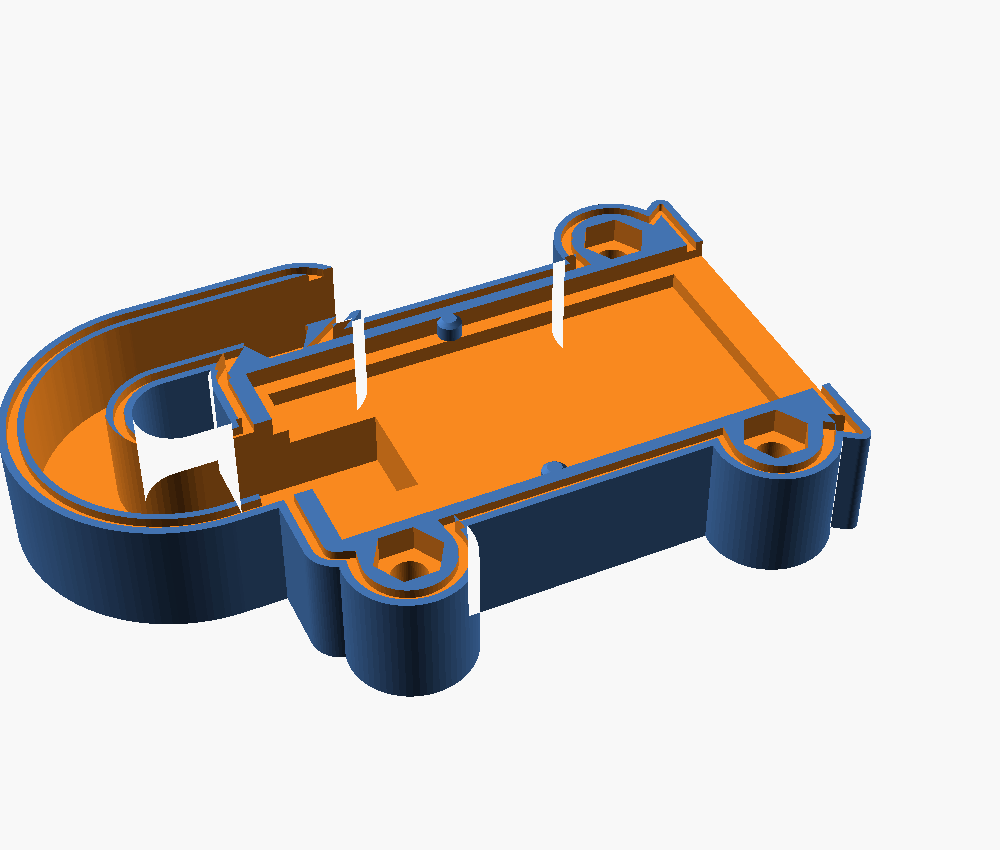
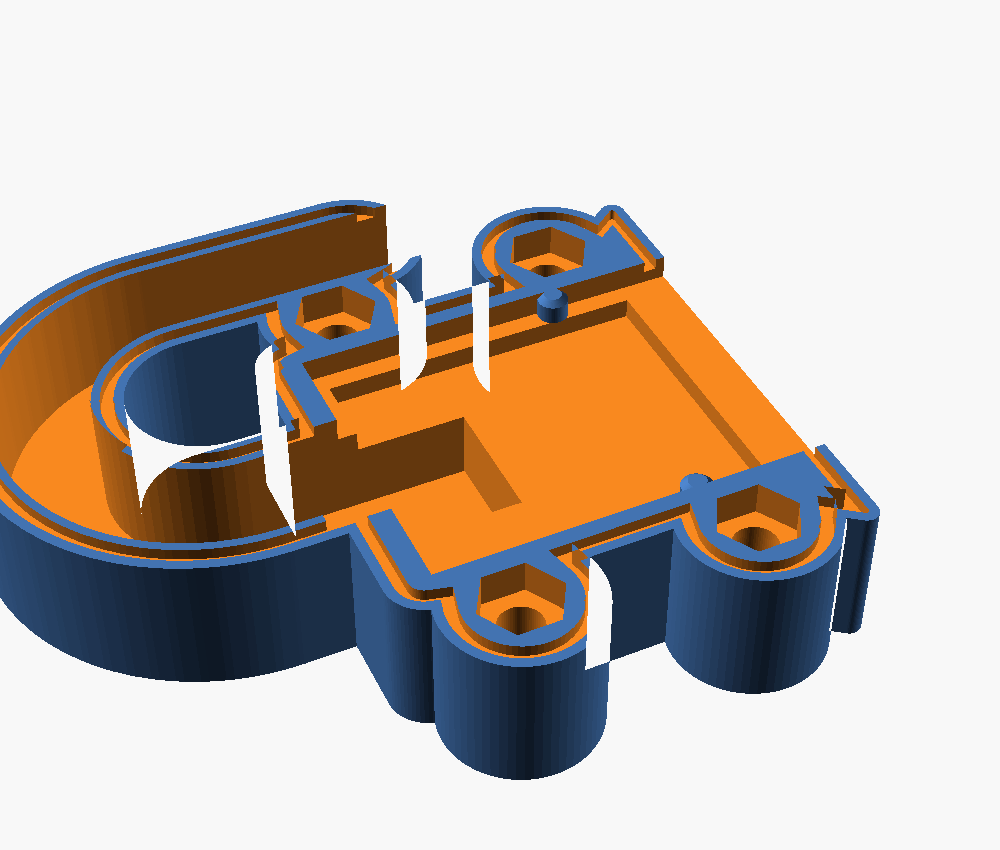
Raccourcir la coque de 18 mm, rendus au sol
La coque engageait 48 mm de carte quand le dernier composant est à
24,4 mm du bord haut et le trait d'immersion à 26,0. Elle couvrait donc
22 mm d'électrode sans avoir à le faire — et chaque millimètre couvert
est un millimètre qui ne lit pas le sol. La carte autorise 72 mm
d'enfoncement, la coque en laissait 50, elle en laisse maintenant 68.

`pcb_in` passe à 30, soit 4 mm sous le trait. Le corps suit, de 52 à 34,
et avec lui le col de cygne et les vis hautes. Ces cotes deviennent
dérivées — H = pcb_in + 4, y_haut = H + 4, vis à H − 8 — parce qu'une
hauteur posée à la main à cinq endroits n'est plus une hauteur, c'est
cinq occasions d'en oublier une.

Deux assert() remplacent le commentaire qui disait de ne pas descendre
plus bas : raccourcir encore fait échouer le rendu au lieu de sortir une
pièce qui a l'air bonne.

La décision était reportée à O7 pour ne pas changer la hauteur pendant
qu'on validait la fermeture. La fermeture est validée — les deux
coquilles s'emboîtent — donc la raison de reporter est tombée.

Corrige au passage un défaut que le raccourcissement a fait sortir, et
qui dormait depuis la v6 : le brin descendant du conduit tombait à x=20
et son perçage, de 16,4 à 23,6, ouvrait dans les logements d'écrou du
haut, de 13,65 à 19,35. 74 mm³ de recouvrement — le nid d'abeille n'était
fermé que sur trois côtés et l'écrou serait ressorti au premier serrage.
Le chiffre est identique à pcb_in=48 : le défaut n'a rien à voir avec le
[…]

diff --git a/docs/src/content/docs/materiel/coque-des-sondes.md b/docs/src/content/docs/materiel/coque-des-sondes.md
@@ -4,7 +4,7 @@ description: Le boîtier imprimé en 3D qui protège la partie haute des sondes 
 sidebar:
   order: 4
   badge:
-    text: v8 à imprimer
+    text: v9 à imprimer
     variant: caution
 ---
 
@@ -14,7 +14,7 @@ conception produit un boîtier imprimable en 3D — paramétrique, versionné da
 
 ```console
 $ just coque-stl        # génère les deux coquilles
-$ just coque-test       # banc d'essai : sept contrôles, un par défaut rencontré
+$ just coque-test       # banc d'essai : huit contrôles, un par défaut rencontré
 $ just coque-preview    # ouvre le modèle
 ```
 
@@ -37,8 +37,14 @@ retourner](#v7--une-coquille-arrière-quon-peut-retourner).
 
 La sonde en main a enfin montré ce qu'aucune vue ne disait : le connecteur est
 traversant, et ses **trois soudures dépassent de 2 mm au dos de la carte**,
-exactement là où le couvercle vient. La **v8** les dégage et reste à imprimer —
-voir [les soudures du connecteur](#v8--les-soudures-du-connecteur).
+exactement là où le couvercle vient. C'est la **v8** qui les dégage — voir
+[les soudures du connecteur](#v8--les-soudures-du-connecteur). Elle a été
+imprimée, et **les deux coquilles s'emboîtent**.
+
+La **v9**, à imprimer, rend au sol 18 mm d'électrode que la coque couvrait sans
+nécessité, et referme au passage les logements d'écrou du haut, qui ouvraient
+dans le conduit du câble depuis la v6 — voir [raccourcir la
+coque](#v9--raccourcir-la-coque).
 :::
 
 ## La contrainte qui gouverne tout le reste
@@ -51,19 +57,24 @@ sensibilité à presque rien — on obtiendrait une sonde parfaitement protégé
 parfaitement aveugle.
 
 ```text
-     ┌─────────┐
+     ┌─────────┐  0
      │ NE555   │  ← partie haute : régulateur, connecteur
      │ régul.  │     C'est CE qui tombe en panne dehors,
      │ PH2.0   │     et c'est ce que la coque protège
-     ├─────────┤       ← la coque s'arrête ici (45 mm)
+     ├·········┤  24,4  dernier composant
+     ├─────────┤  26,0  trait d'immersion
+     ├─────────┤  30,0  ← la coque s'arrête ici
      │         │
-     │ ÉLECTRODE│  ← surtout pas de plastique par-dessus
-     │         │
-     ╰────╮╭───╯
-          ││
+     │ÉLECTRODE│  ← surtout pas de plastique par-dessus,
+     │         │     et surtout pas de coque non plus :
+     │         │     chaque millimètre couvert est un
+     ╰────╮╭───╯     millimètre qui ne lit pas le sol
+          ││         98,0
 ```
 
-La coque couvre donc les **45 mm du haut**, et rien d'autre.
+La coque couvre donc les **30 mm du haut**, et rien d'autre. Ce n'est pas un
+chiffre choisi : c'est le trait d'immersion à 26,0 mm plus 4 mm de marge, et le
+modèle refuse de se rendre en dessous.
 
 ## Le cheminement de la conception
 
@@ -390,6 +401,66 @@ plastique. Le second est un garde-fou : la poche passe à 7 mm de l'anneau de
 joint, et l'élargir la ferait **couper la languette en deux** sans que rien
 d'autre ne s'en aperçoive.
 
+**Cette version a été imprimée, et les deux coquilles s'emboîtent.**
+
+### v9 — raccourcir la coque
+
+La coque engageait 48 mm de carte quand le dernier composant est à 24,4 mm du
+bord haut et le trait d'immersion à 26,0. Elle couvrait donc **22 mm
+d'électrode sans avoir à le faire** — et chaque millimètre couvert est un
+millimètre qui ne lit pas le sol.
+
+```text
+   bord haut ─┬─ 0
+              │   composants jusqu'à 24,4 ─┐
+   trait      ┼─ 26,0  immersion max       │ ce que la coque
+   lèvre v9   ┼─ 30,0  ←── nouveau bas     ┘ doit couvrir
+              │
+   lèvre v8   ┼─ 48,0  ←── ancien bas
+              │   18 mm rendus au sol
+              ┴─ 98,0  pointe
+```
+
+`pcb_in` passe de 48 à **30 mm** : la carte autorise 72 mm d'enfoncement, la
+coque en laissait 50, elle en laisse maintenant **68**.
+
+Le corps suit, de 52 à 34 mm, et avec lui le col de cygne et les vis hautes.
+Ces cotes sont désormais **dérivées** au lieu d'être posées à la main — `H =
+pcb_in + 4`, `y_haut = H + 4`, les vis à `H − 8` — sinon la prochaine révision
+en oublierait la moitié.
+
+Et deux garde-fous entrent dans le modèle, à la place d'un commentaire :
+
+```openscad
+assert(pcb_in >= trait_y + 2, "pcb_in laisse le trait d'immersion hors de la coque");
+assert(pcb_in >= compo_y + 2, "pcb_in laisse le dernier composant hors de la coque");
+```
+
+Raccourcir encore fait maintenant **échouer le rendu**, au lieu de sortir une
+pièce qui a l'air bonne.
+
+#### Un défaut que le raccourcissement a fait sortir
+
+En rapprochant les vis hautes du col de cygne, cette révision a révélé un
+défaut qui dormait **depuis la v6** :
+
+:::danger[Les logements d'écrou du haut ouvraient dans le conduit du câble]
+Le brin descendant du conduit tombait à x = 20, son perçage occupant la bande
+16,4 → 23,6. Les logements d'écrou du haut occupaient 13,65 → 19,35. **74 mm³
+de recouvrement** : le nid d'abeille n'était fermé que sur trois côtés, et
+l'écrou serait ressorti au premier serrage.
+
+Le chiffre est identique à `pcb_in = 48` — le défaut n'a rien à voir avec le
+raccourcissement, il était simplement invisible tant que rien ne le cherchait.
+:::
+
+La boucle passe de 10 à **12 mm de rayon** : le brin descend alors à x = 24, ce
+qui laisse 1 mm de paroi entre le conduit et l'écrou — et donne au câble un
+rayon de cintrage plus confortable. Le huitième contrôle vérifie qu'**aucun
+logement d'écrou n'ouvre dans une cavité**, quelle qu'elle soit.
+
+![Rendu de la coquille avant en v9 : corps raccourci, quatre logements hexagonaux d'écrou fermés, rainure de joint sur tout le contour et boucle du col élargie](../../../assets/coque/coquille-avant.png)
+
 ## Le relevé qui a tranché
 
 La sonde est photographiée **posée sur un réglet**, dans son plan. Mesurer les
@@ -454,24 +525,13 @@ Un rapport mesuré sur une image mesure les **longs écarts**, jamais les petits
 détails. Le grand écart calibre, le petit détail se mesure à la main.
 :::
 
-:::note[Le trait blanc rouvre la question du `pcb_in` — reportée à O7]
+:::note[Le trait blanc a fixé la hauteur de la coque]
 Ce trait est la **limite d'immersion** de la carte : en dessous, plus un seul
 composant, rien que l'électrode jusqu'à la pointe.
 
-Or la coque engage 48 mm, soit **22 mm sous ce trait**. Elle ne met pas
-l'électronique en danger — au contraire, elle protège bien au-delà de ce que la
-carte nue tolère. Mais elle **limite l'enfoncement à 50 mm d'électrode dans le
-sol** là où la carte en autorise 72 : on ne pousse la sonde que jusqu'à la lèvre
-de la coque.
-
-Descendre `pcb_in` à ~30 mm rendrait ces 22 mm, au prix d'une refonte des
-proportions (`H`, `vis_pos`, la jupe, le col).
-
-**Décision prise : on n'y touche pas maintenant.** La v5 corrige un seul défaut,
-et c'est ce qu'il faut pour savoir s'il est corrigé — changer la hauteur du
-boîtier en même temps rendrait le résultat illisible. La profondeur
-d'enfoncement est une question de sol, pas de modèle : elle se tranchera à
-[O7](/objectifs/o7-mise-au-jardin/#létanchéité), sur des mesures.
+C'est lui qui commande `pcb_in`. La coque descend à 30 mm, soit 4 mm sous le
+trait — assez pour tout couvrir, pas un millimètre de plus. Le modèle refuse
+désormais de se rendre si on descend en dessous.
 :::
 
 ## Les cotes restantes

diff --git a/docs/src/content/docs/objectifs/o7-mise-au-jardin.md b/docs/src/content/docs/objectifs/o7-mise-au-jardin.md
@@ -84,18 +84,18 @@ terre. Deux voies, à départager ici :
   annonce septembre 2026, donc à anticiper de plusieurs semaines ;
 - garder les sondes génériques en les protégeant : la
   [coque imprimée en 3D](/materiel/coque-des-sondes/) est conçue, versionnée,
-  et sa v4 a déjà été imprimée — la v5 corrige le seul défaut qui empêchait
-  l'encastrement.
+  imprimée et **montée** — la carte s'encastre et les deux coquilles
+  s'emboîtent. Ce qui reste à prouver n'est plus la géométrie mais la tenue
+  dans la durée.
 
-**Une décision de conception attend ici.** La coque engage 48 mm de carte, soit
-22 mm sous la limite d'immersion : elle plafonne l'enfoncement à **50 mm
-d'électrode dans le sol** là où la carte en autorise 72. Descendre `pcb_in` à
-~30 mm rendrait ces 22 mm, au prix d'une refonte des proportions du boîtier.
+**Une décision de conception attendait ici, elle a été prise en amont.** La
+coque engageait 48 mm de carte, soit 22 mm sous la limite d'immersion, et
+plafonnait l'enfoncement à 50 mm d'électrode là où la carte en autorise 72.
+Elle descend maintenant à 30 mm et en laisse **68**.
 
-Le choix a été de **ne pas y toucher avant d'avoir validé l'encastrement**, et
-de trancher ici, sur des mesures de terrain : 50 mm de sonde en terre
-suffisent-ils à voir ce qu'on cherche, ou les valeurs suivent-elles trop la
-surface qui sèche ?
+Reste à vérifier au jardin ce qu'aucun calcul ne dira : 68 mm de sonde en terre
+suffisent-ils à voir ce qu'on cherche, ou les valeurs suivent-elles encore trop
+la surface qui sèche ?
 
 Dans les deux cas, le **vernissage de l'électrode et des chants** est
 indispensable : c'est par les tranches nues du PCB que l'humidité remonte.

diff --git a/hardware/coque/README.md b/hardware/coque/README.md
@@ -13,7 +13,7 @@ $ just coque-preview      # ouvre le modèle dans OpenSCAD
 
 ## ⚠ Avant d'imprimer
 
-**Passe `just coque-test`.** Sept contrôles, un par défaut déjà rencontré :
+**Passe `just coque-test`.** Huit contrôles, un par défaut déjà rencontré :
 
 | Contrôle | Le défaut qu'il attrape |
 |---|---|
@@ -24,6 +24,7 @@ $ just coque-preview      # ouvre le modèle dans OpenSCAD
 | la pièce imprimée se retourne | v6 : posée par un miroir, la coquille arrière n'atteignait sa pose par aucun mouvement réel |
 | les soudures ne touchent pas l'arrière | v7 : les 3 soudures du connecteur, 2 mm au dos de la carte, tapaient dans le couvercle |
 | le dégagement ne coupe pas la languette | garde-fou : la poche de dégagement passe à 7 mm de l'anneau de joint |
+| aucun écrou n'ouvre dans une cavité | v6 : le conduit du câble traversait les logements d'écrou du haut, 74 mm³ |
 
 Tous ont été validés en **réintroduisant le défaut** : un contrôle qu'on n'a
 jamais vu échouer peut très bien ne rien mesurer.
